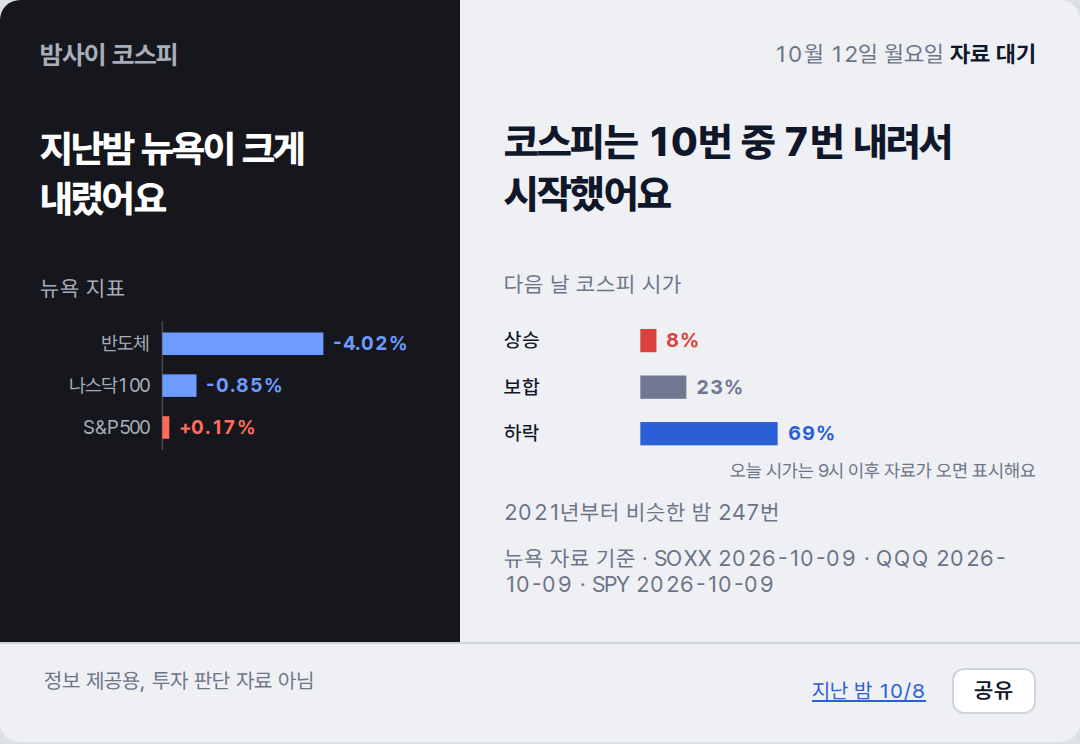
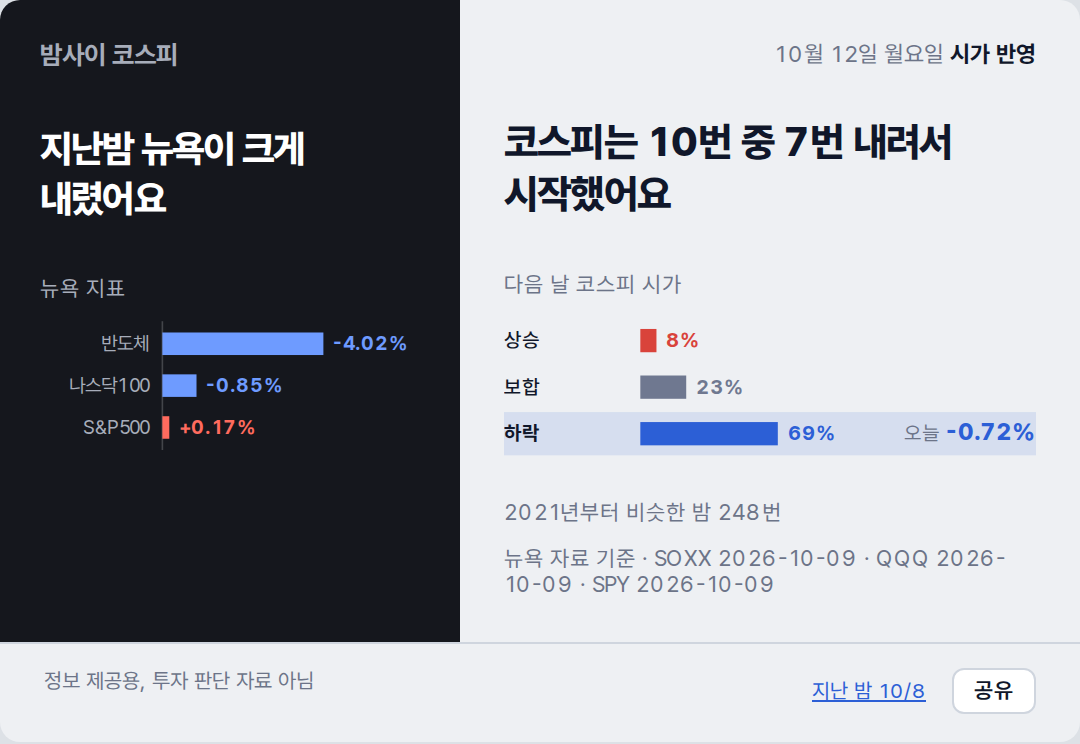
deploy: c0d07a214321b41f7cf333fef670b17ffe5b5852

diff --git a/2026-10-12/index.html b/2026-10-12/index.html
@@ -38,18 +38,19 @@ footer a{color:#2C5FD6}
 <rect x="76" y="61" width="4.3" height="14" fill="var(--up)"/>
 <text x="86.3" y="72" fill="var(--up)" font-weight="700">+0.17%</text>
 </svg></section>
-<section class="day"><p class="stamp">10월 12일 월요일 <b>자료 대기</b></p><p class="claim">코스피는 10번 중 7번 내려서 시작했어요</p><p class="lab">다음 날 코스피 시가</p><svg viewBox="0 0 320 100" xmlns="http://www.w3.org/2000/svg" font-family="var(--sans)" font-size="12">
+<section class="day"><p class="stamp">10월 12일 월요일 <b>시가 반영</b></p><p class="claim">코스피는 10번 중 7번 내려서 시작했어요</p><p class="lab">다음 날 코스피 시가</p><svg viewBox="0 0 320 100" xmlns="http://www.w3.org/2000/svg" font-family="var(--sans)" font-size="12">
 <text x="0" y="20" fill="var(--ink)" font-weight="500">상승</text>
 <rect x="82" y="9" width="9.7" height="14" fill="var(--up)"/>
 <text x="97.7" y="20" fill="var(--up)" font-weight="700">8%</text>
 <text x="0" y="48" fill="var(--ink)" font-weight="500">보합</text>
-<rect x="82" y="37" width="27.7" height="14" fill="var(--flat)"/>
-<text x="115.7" y="48" fill="var(--flat)" font-weight="700">23%</text>
-<text x="0" y="76" fill="var(--ink)" font-weight="500">하락</text>
-<rect x="82" y="65" width="82.6" height="14" fill="var(--down)"/>
-<text x="170.6" y="76" fill="var(--down)" font-weight="700">69%</text>
-<text x="320" y="98" text-anchor="end" fill="var(--muted)" font-size="11">오늘 시가는 9시 이후 자료가 오면 표시해요</text>
-</svg><p class="cap">2021년부터 비슷한 밤 247번</p><p class="cap">뉴욕 자료 기준 · SOXX 2026-10-09 · QQQ 2026-10-09 · SPY 2026-10-09</p></section>
+<rect x="82" y="37" width="27.6" height="14" fill="var(--flat)"/>
+<text x="115.6" y="48" fill="var(--flat)" font-weight="700">23%</text>
+<rect x="0" y="59" width="320" height="26" fill="var(--down)" opacity=".12"/>
+<text x="0" y="76" fill="var(--ink)" font-weight="700">하락</text>
+<rect x="82" y="65" width="82.7" height="14" fill="var(--down)"/>
+<text x="170.7" y="76" fill="var(--down)" font-weight="700">69%</text>
+<text x="320" y="76" text-anchor="end" fill="var(--ink)"><tspan fill="var(--muted)">오늘 </tspan><tspan font-weight="800" font-size="14" fill="var(--down)">-0.72%</tspan></text>
+</svg><p class="cap">2021년부터 비슷한 밤 248번</p><p class="cap">뉴욕 자료 기준 · SOXX 2026-10-09 · QQQ 2026-10-09 · SPY 2026-10-09</p></section>
 <footer><span>정보 제공용, 투자 판단 자료 아님</span><span style="white-space:nowrap"><a href="../2026-10-08/">지난 밤 10/8</a> <button class="share" type="button">공유</button></span></footer>
 <script>
 /* 공유: Web Share가 있으면 시스템 공유 시트, 없으면 링크 복사. 링크는 이 날짜 페이지(OG 카드 붙음) */

diff --git a/index.html b/index.html
@@ -38,18 +38,19 @@ footer a{color:#2C5FD6}
 <rect x="76" y="61" width="4.3" height="14" fill="var(--up)"/>
 <text x="86.3" y="72" fill="var(--up)" font-weight="700">+0.17%</text>
 </svg></section>
-<section class="day"><p class="stamp">10월 12일 월요일 <b>자료 대기</b></p><p class="claim">코스피는 10번 중 7번 내려서 시작했어요</p><p class="lab">다음 날 코스피 시가</p><svg viewBox="0 0 320 100" xmlns="http://www.w3.org/2000/svg" font-family="var(--sans)" font-size="12">
+<section class="day"><p class="stamp">10월 12일 월요일 <b>시가 반영</b></p><p class="claim">코스피는 10번 중 7번 내려서 시작했어요</p><p class="lab">다음 날 코스피 시가</p><svg viewBox="0 0 320 100" xmlns="http://www.w3.org/2000/svg" font-family="var(--sans)" font-size="12">
 <text x="0" y="20" fill="var(--ink)" font-weight="500">상승</text>
 <rect x="82" y="9" width="9.7" height="14" fill="var(--up)"/>
 <text x="97.7" y="20" fill="var(--up)" font-weight="700">8%</text>
 <text x="0" y="48" fill="var(--ink)" font-weight="500">보합</text>
-<rect x="82" y="37" width="27.7" height="14" fill="var(--flat)"/>
-<text x="115.7" y="48" fill="var(--flat)" font-weight="700">23%</text>
-<text x="0" y="76" fill="var(--ink)" font-weight="500">하락</text>
-<rect x="82" y="65" width="82.6" height="14" fill="var(--down)"/>
-<text x="170.6" y="76" fill="var(--down)" font-weight="700">69%</text>
-<text x="320" y="98" text-anchor="end" fill="var(--muted)" font-size="11">오늘 시가는 9시 이후 자료가 오면 표시해요</text>
-</svg><p class="cap">2021년부터 비슷한 밤 247번</p><p class="cap">뉴욕 자료 기준 · SOXX 2026-10-09 · QQQ 2026-10-09 · SPY 2026-10-09</p></section>
+<rect x="82" y="37" width="27.6" height="14" fill="var(--flat)"/>
+<text x="115.6" y="48" fill="var(--flat)" font-weight="700">23%</text>
+<rect x="0" y="59" width="320" height="26" fill="var(--down)" opacity=".12"/>
+<text x="0" y="76" fill="var(--ink)" font-weight="700">하락</text>
+<rect x="82" y="65" width="82.7" height="14" fill="var(--down)"/>
+<text x="170.7" y="76" fill="var(--down)" font-weight="700">69%</text>
+<text x="320" y="76" text-anchor="end" fill="var(--ink)"><tspan fill="var(--muted)">오늘 </tspan><tspan font-weight="800" font-size="14" fill="var(--down)">-0.72%</tspan></text>
+</svg><p class="cap">2021년부터 비슷한 밤 248번</p><p class="cap">뉴욕 자료 기준 · SOXX 2026-10-09 · QQQ 2026-10-09 · SPY 2026-10-09</p></section>
 <footer><span>정보 제공용, 투자 판단 자료 아님</span><span style="white-space:nowrap"><a href="./2026-10-08/">지난 밤 10/8</a> <button class="share" type="button">공유</button></span></footer>
 <script>
 /* 공유: Web Share가 있으면 시스템 공유 시트, 없으면 링크 복사. 링크는 이 날짜 페이지(OG 카드 붙음) */
